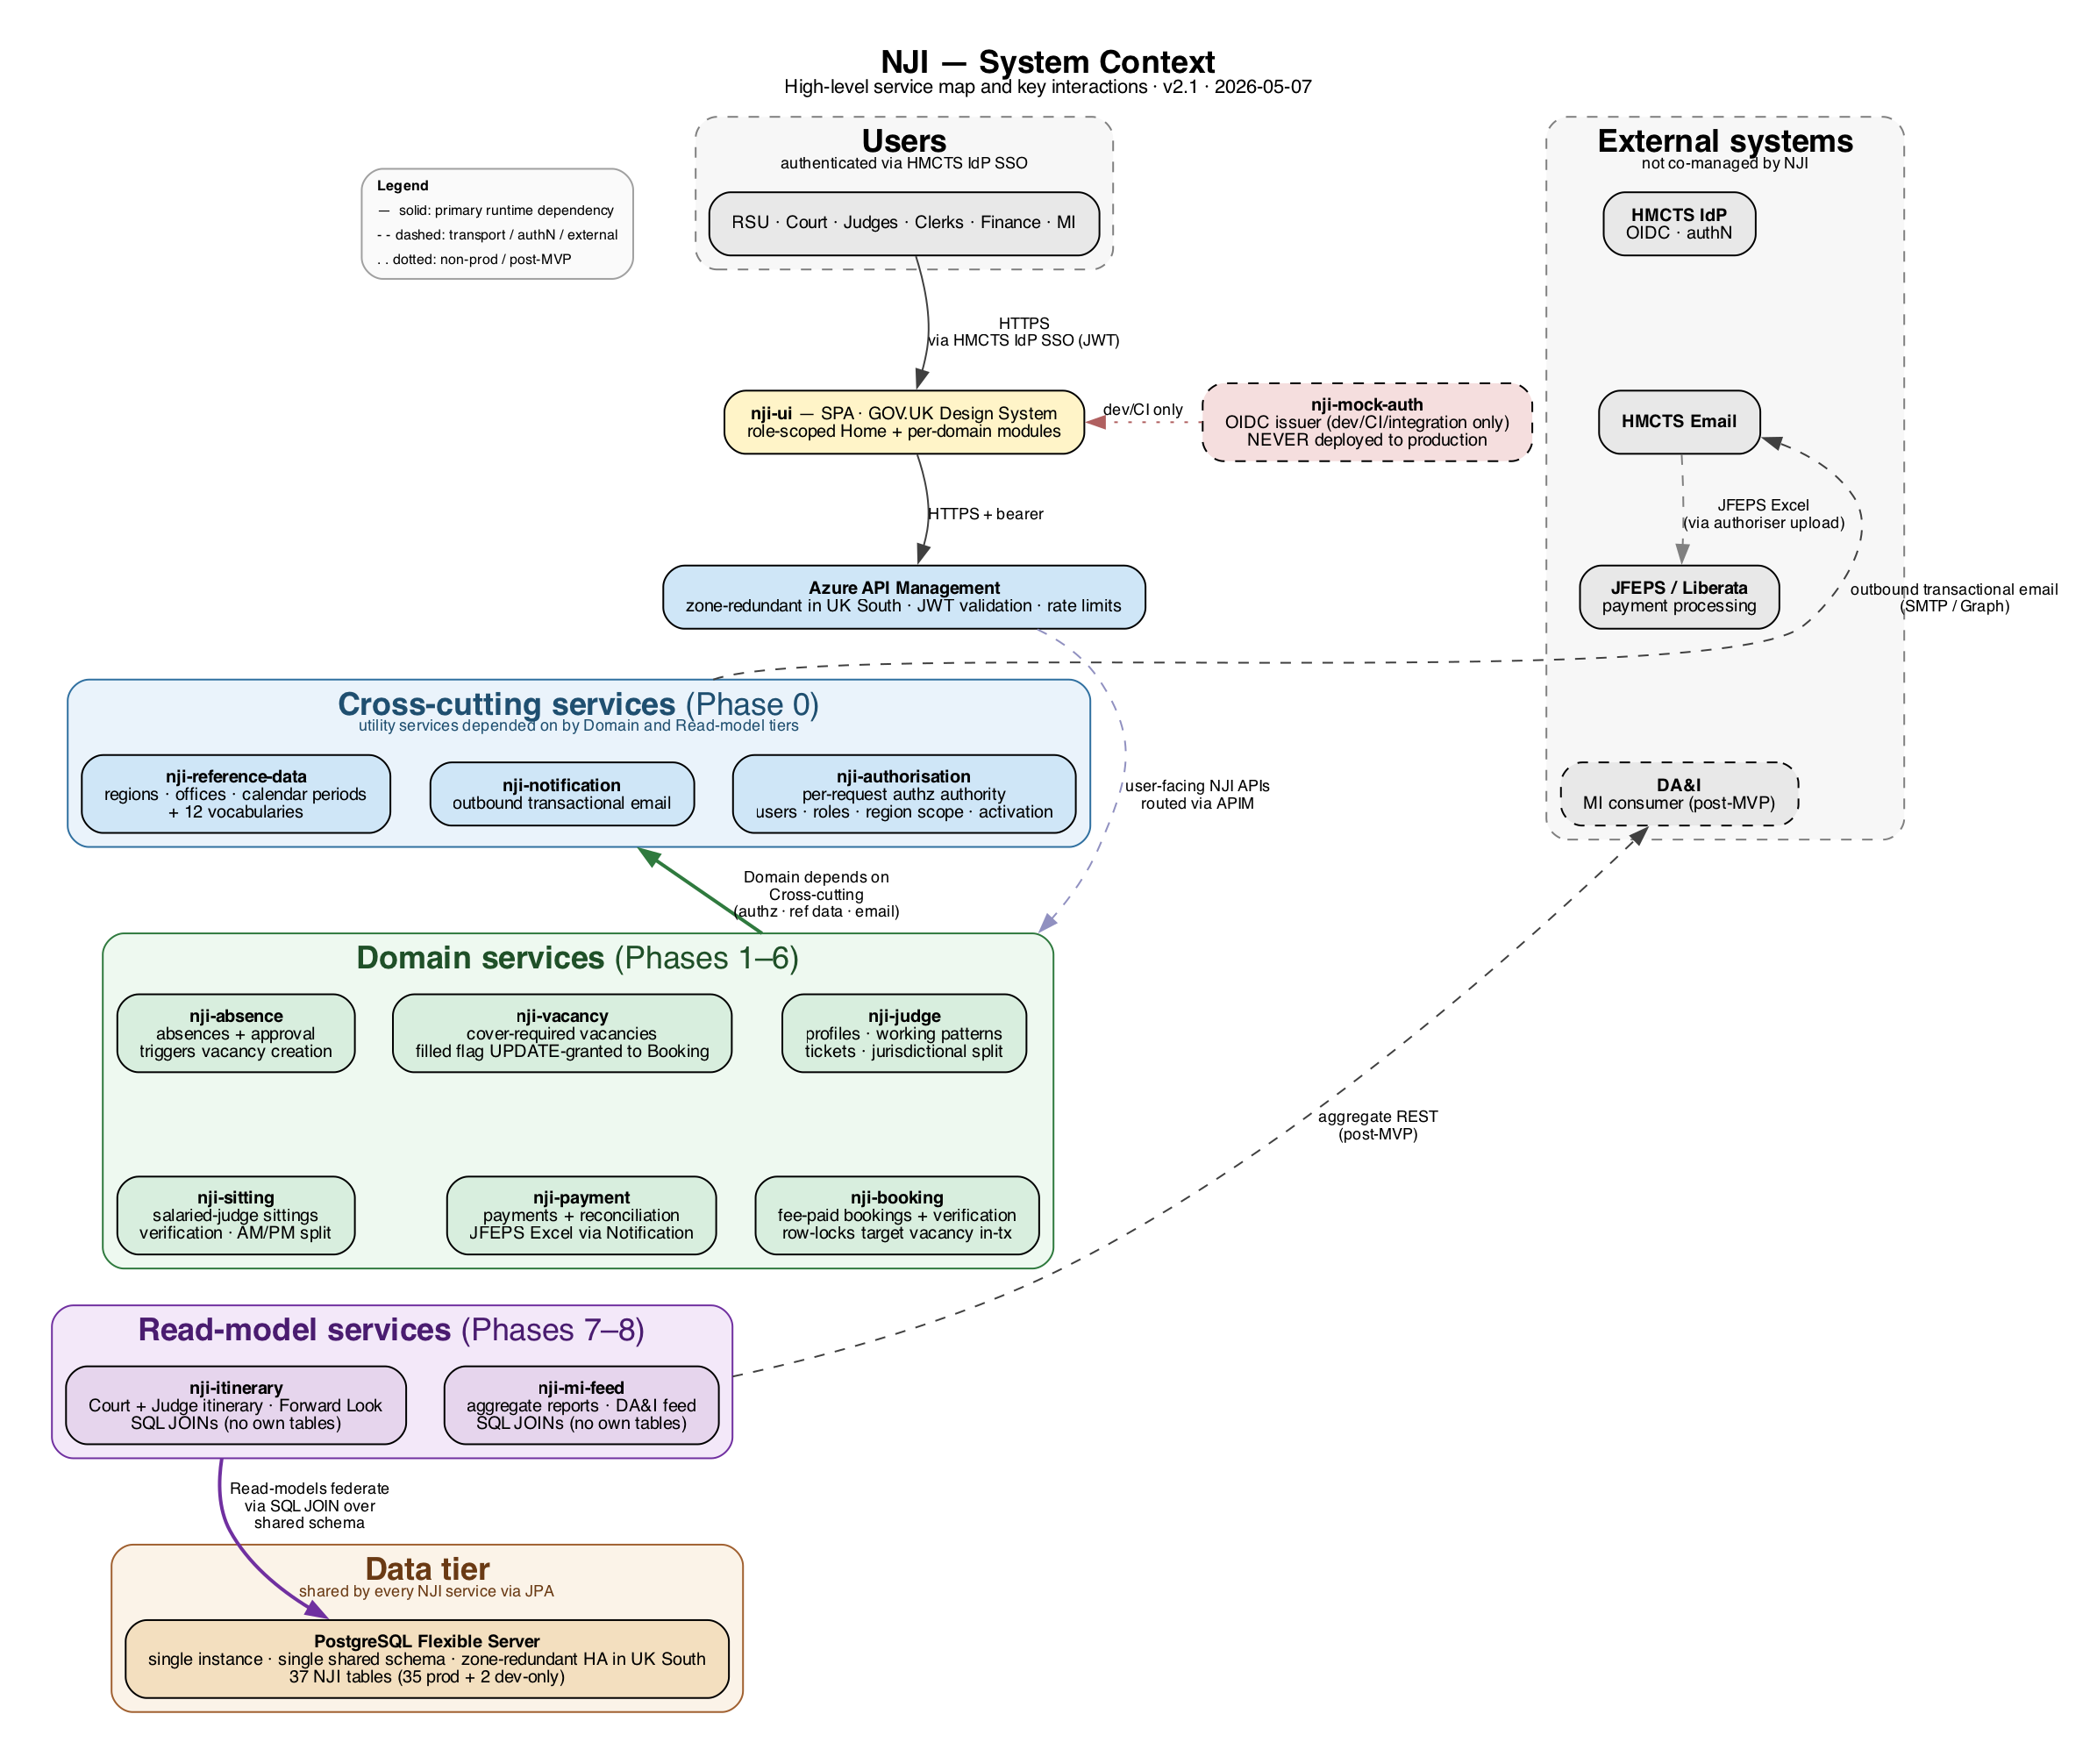
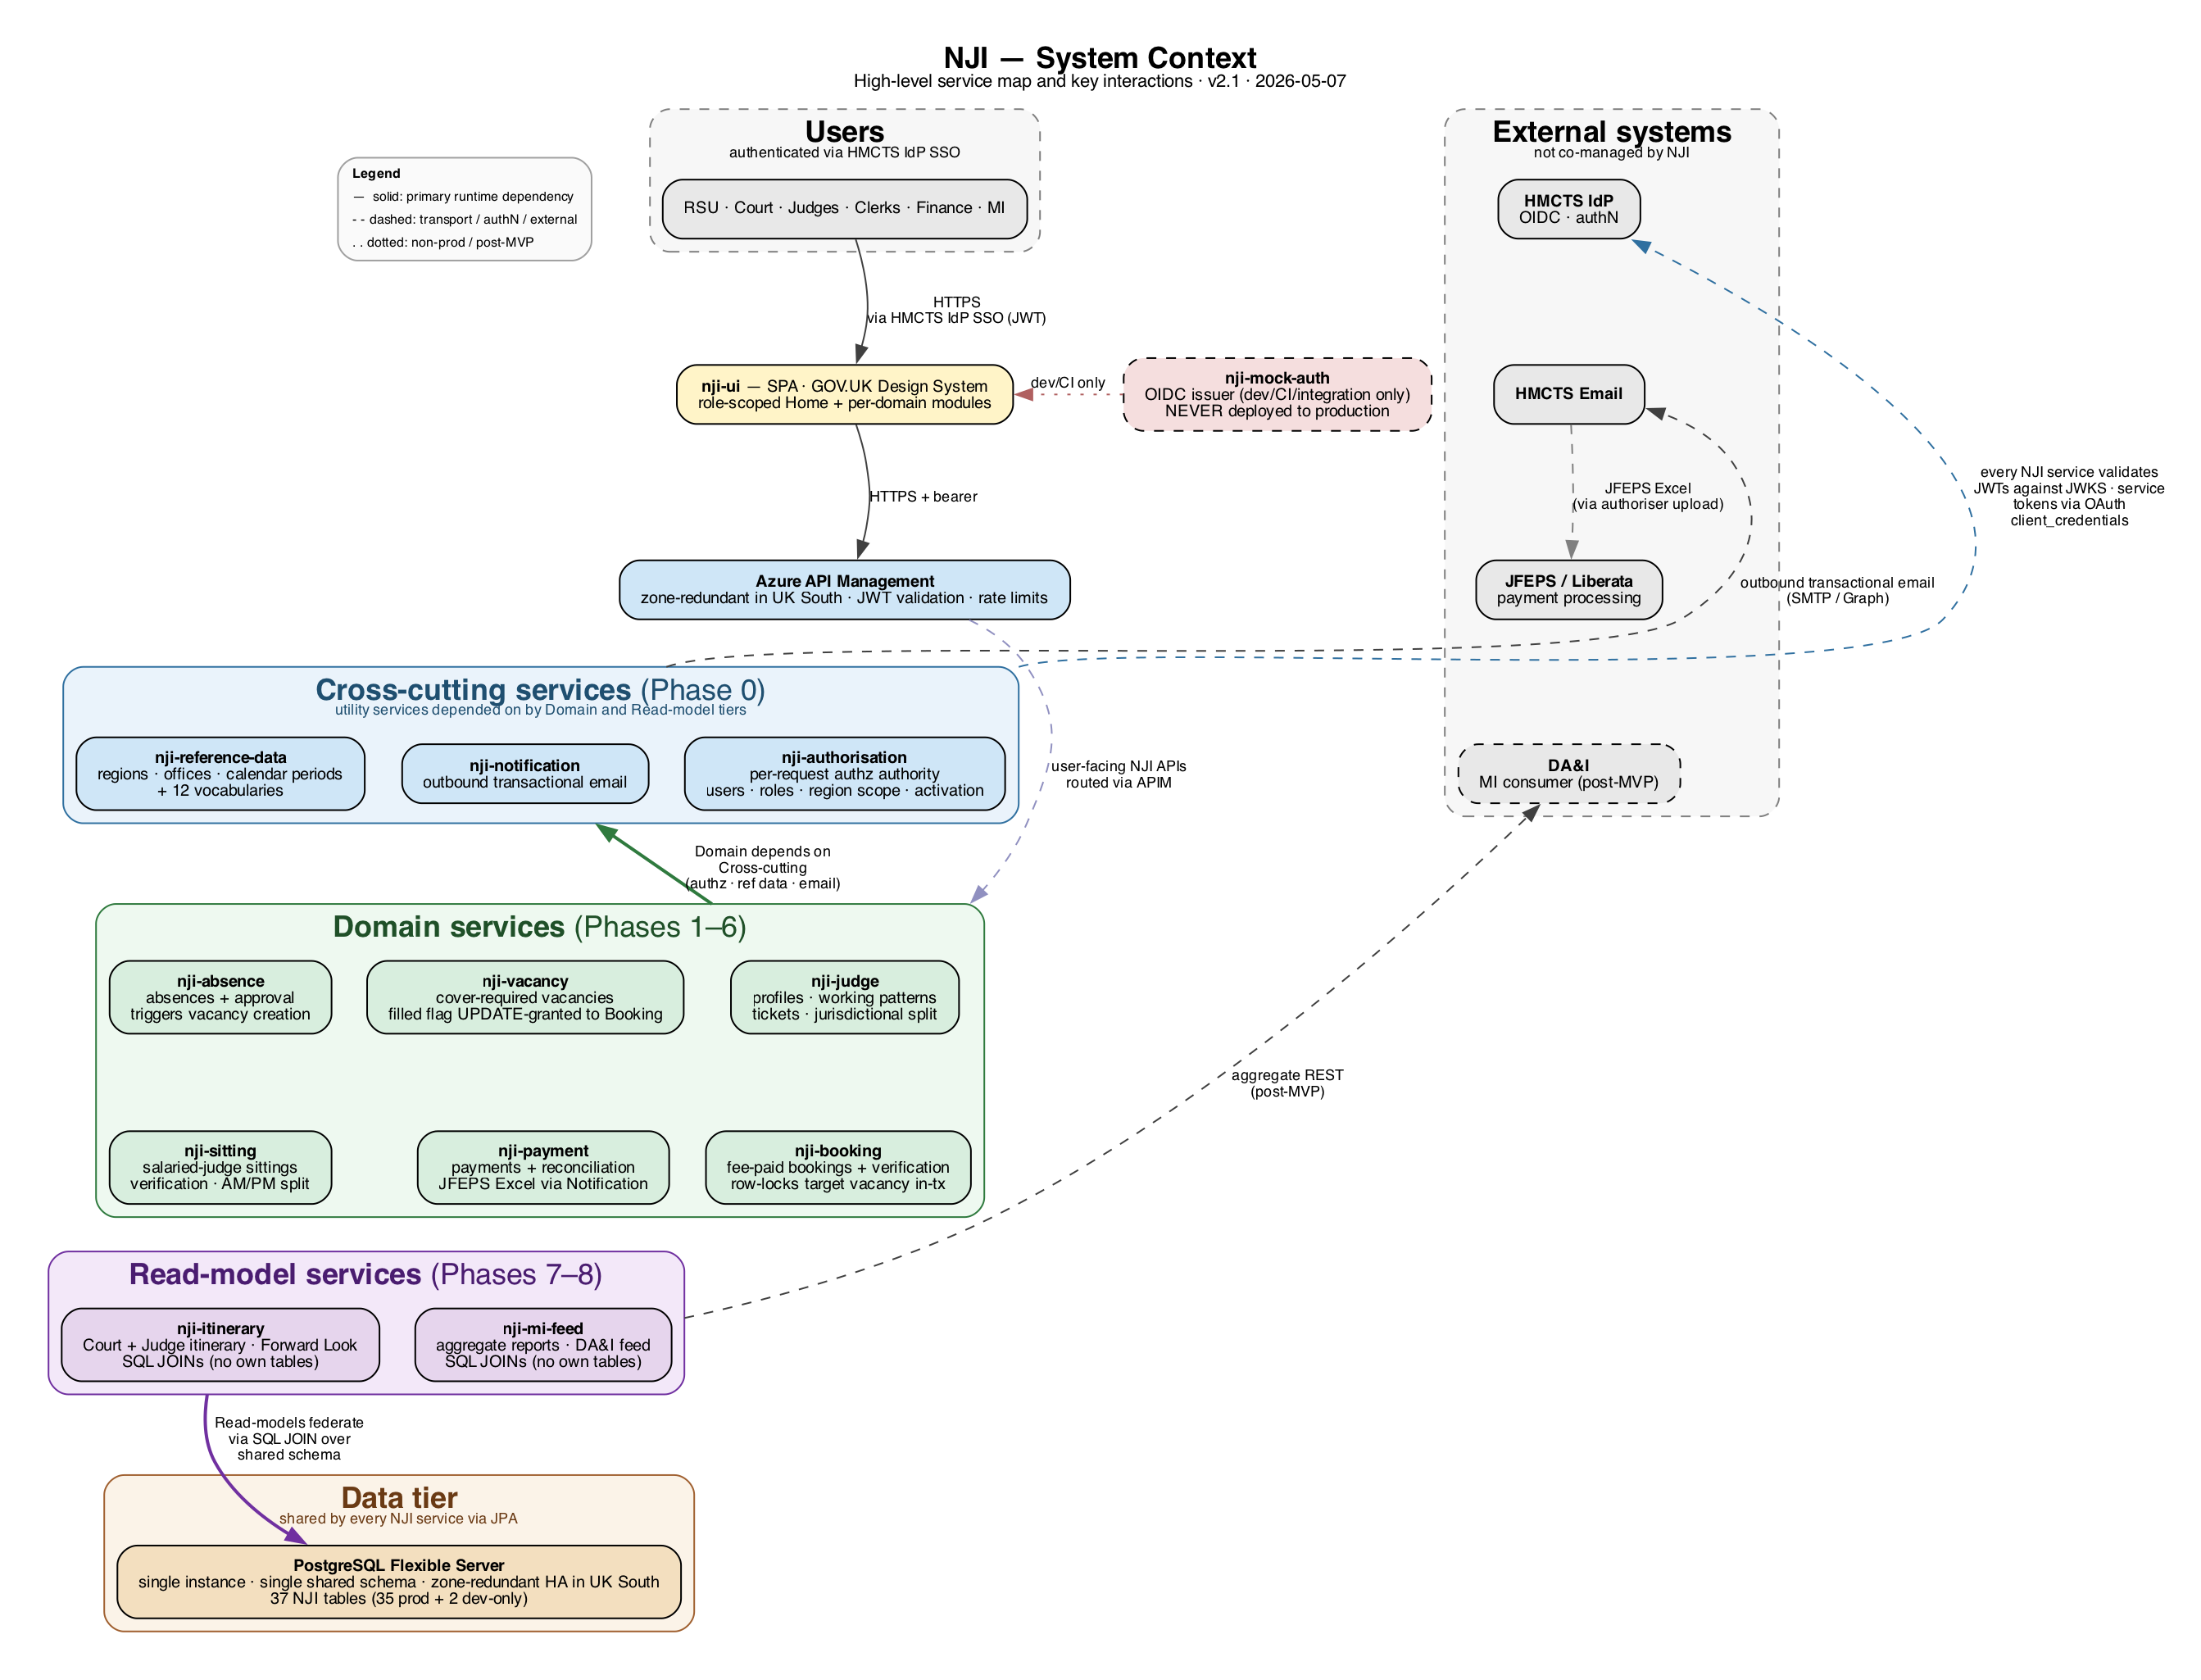
docs: Update architecture documentation to clarify HMCTS IdP integration and JWT validation process

diff --git a/_bmad-output/planning-artifacts/architecture-summary.md b/_bmad-output/planning-artifacts/architecture-summary.md
@@ -64,9 +64,9 @@ This file describes **what is built and how it runs**. For decision rationale, a
 | Schema evolution | Flyway (NJI DDL only) |
 | Container orchestration | Azure Kubernetes Service — single production cluster in UK South with multi-AZ node pools |
 | Ingress | Azure API Management — Premium SKU, zone-redundant |
-| Identity provider | HMCTS IdP via OIDC (production); `nji-mock-auth` in dev / CI / integration |
-| Service-to-service auth | OAuth 2.0 client_credentials |
-| Per-request auth | Custom `JWTFilter` (HMCTS Crime template pattern) → `nji-authorisation` |
+| Identity provider | HMCTS IdP via OIDC (production); `nji-mock-auth` in dev / CI / integration; JWKS endpoint provides JWT-signature public keys to every NJI service |
+| Service-to-service auth | OAuth 2.0 client_credentials grant against the same OIDC issuer |
+| Per-request auth | Custom `JWTFilter` (HMCTS Crime template pattern, `io.jsonwebtoken:jjwt`) — validates JWT signature against IdP JWKS, then calls `nji-authorisation` for authz |
 | Secrets | Azure Key Vault (zone-redundant) |
 | Observability | Logback + Logstash JSON encoder → OpenTelemetry → Azure Application Insights / Log Analytics |
 | Frontend stack | React + TypeScript + Vite + GOV.UK Design System |
@@ -86,9 +86,10 @@ Full per-table inventory: [`./architecture/data-tables.md`](./architecture/data-
 
 ## Authentication & Authorisation
 
-- **End-user authentication** — HMCTS IdP via OIDC; single sign-on; JWT issued. Mock auth (`nji-mock-auth`, Spring Authorization Server) is the OIDC issuer in non-production environments; cutover to real HMCTS IdP is a Spring profile change (no code change).
-- **End-user authorisation** — every NJI service implements its own custom `JWTFilter`. The filter validates the JWT and calls `POST /authz/check` against `nji-authorisation` to resolve role + Region/Area scope + per-region activation flag (FR58). Authorisation context lives in a request-scoped `AuthDetails` bean.
-- **Service-to-service authentication** — OAuth 2.0 `client_credentials` grant against the same OIDC issuer; service token attached as `Authorization: Bearer …` to internal calls.
+- **End-user authentication** — HMCTS IdP via OIDC; single sign-on; JWT issued. Mock auth (`nji-mock-auth`, Spring Authorization Server) is the OIDC issuer in non-production environments; cutover to real HMCTS IdP is a Spring profile change (issuer-url + JWKS URL flip — no code change).
+- **JWT signature validation against HMCTS IdP** — every NJI service's custom `JWTFilter` (per HMCTS Crime template, `io.jsonwebtoken:jjwt` based) validates the JWT signature and issuer by fetching public keys from the IdP's **JWKS endpoint** (`/oauth2/jwks` on mock auth; HMCTS IdP's published JWKS URL in production). Validation happens **before the request reaches the service's controller** — it is the gate that enforces "users have a valid authenticated session" before any NJI API resource is exposed. Public keys are cached per the issuer's cache headers.
+- **End-user authorisation** — after JWT validation, the same `JWTFilter` calls `POST /authz/check` against `nji-authorisation` to resolve role + Region/Area scope + per-region activation flag (FR58). Authorisation context lives in a request-scoped `AuthDetails` bean.
+- **Service-to-service authentication** — service principals acquire tokens from the same OIDC issuer via OAuth 2.0 `client_credentials` grant; service token attached as `Authorization: Bearer …` to internal calls; the receiving service's `JWTFilter` validates the service token via the same JWKS path.
 - **APEX ⇄ IdP identity reconciliation** — email primary, employee number fallback. Reconciliation is performed by the Phase 0 Data Migration ETL when seeding `nji-authorisation`.
 
 ## API patterns
@@ -109,8 +110,9 @@ Full per-table inventory: [`./architecture/data-tables.md`](./architecture/data-
 
 | Pattern | Mechanism |
 |---|---|
-| User request | HMCTS IdP SSO → JWT → `nji-ui` → APIM (JWT validation, rate limits) → service |
-| Per-request authz | `JWTFilter` calls `POST /authz/check` against `nji-authorisation` |
+| User request | HMCTS IdP SSO → JWT → `nji-ui` → APIM (rate limits, routing) → service |
+| Per-request JWT validation | Each NJI service's `JWTFilter` validates the inbound JWT signature against **HMCTS IdP's JWKS endpoint** before any controller is invoked |
+| Per-request authz | After JWT validation, the same `JWTFilter` calls `POST /authz/check` against `nji-authorisation` |
 | Reference Data reads | Direct SQL (per-service `SELECT` grant); no API call |
 | Reference Data writes | Via `nji-reference-data` API (admin / Phase 0 seeding) |
 | Cross-service workflow | REST call to the owning service |
@@ -152,7 +154,7 @@ A standalone programme deliverable, **not a runtime service**:
 
 | System | Direction | Purpose |
 |---|---|---|
-| HMCTS IdP | inbound (authN) + service-token issuance | OIDC authentication for users and service principals |
+| HMCTS IdP | inbound (authN) + JWKS used by NJI services for JWT signature validation + service-token issuance via OAuth client_credentials | OIDC authentication for users and service principals; every NJI service's `JWTFilter` validates inbound JWTs against IdP JWKS before allowing access to NJI APIs |
 | HMCTS Email | outbound | Booking / absence acknowledgements; JFEPS payment schedules |
 | JFEPS / Liberata | outbound (via authoriser email upload) | Payment processing |
 | DA&I | inbound (post-MVP REST) | MI consumer for aggregate reports |

diff --git a/_bmad-output/planning-artifacts/architecture.md b/_bmad-output/planning-artifacts/architecture.md
@@ -38,7 +38,7 @@ _This document builds collaboratively through step-by-step discovery. Sections a
 | [`./architecture/repo-structure.md`](./architecture/repo-structure.md) | Per-service / UI / `nji-architecture` repo directory structures, file organisation patterns, local development workflow, deployment-pipeline ASCII diagram |
 | [`./architecture/gaps.md`](./architecture/gaps.md) | Documented Gaps register — G1–G6 series with mitigations and owners |
 | [`./architecture/assumptions.md`](./architecture/assumptions.md) | Assumptions register — A1–A33 with type (load-bearing / reversible / aspirational) and verification path |
-| [`./architecture/changelog.md`](./architecture/changelog.md) | Version history v1.0 → v2.2, including a *pre-v1.8 anchor → current location* table for older changelog entries that reference moved sections |
+| [`./architecture/changelog.md`](./architecture/changelog.md) | Version history v1.0 → v2.3, including a *pre-v1.8 anchor → current location* table for older changelog entries that reference moved sections |
 
 Refactor history: the single-file `architecture.md` was split into the index + sibling structure above in v1.8 (Strategy B). Pre-v1.8 changelog entries reference section anchors that moved to siblings; the [`./architecture/changelog.md`](./architecture/changelog.md) header has a redirect table.
 
@@ -409,7 +409,7 @@ NJI's pre-production phases (0 through 8) use a **Mock Authentication Service** 
 **End-user authorisation: NJI Authorisation service** (locked).
 
 - Each NJI service implements its own **custom JWT filter** (per HMCTS Crime template's `JWTFilter` pattern, `io.jsonwebtoken:jjwt` based). The filter:
-  1. Validates the JWT signature and issuer (mock auth in Phase 0–8; HMCTS IdP from pre-Phase-9).
+  1. Validates the JWT signature and issuer **by fetching the issuer's JWKS public keys** (`/oauth2/jwks` on mock auth in Phase 0–8; HMCTS IdP's published JWKS endpoint from pre-Phase-9). Public keys are cached per the issuer's published cache headers.
   2. Extracts the principal identity (sub, email, employee number) from JWT claims.
   3. Calls `POST /authz/check` against the NJI Authorisation service to resolve the principal's NJI roles + Region/Area scope + per-region phased activation flag (FR58). **This step diverges from the HMCTS Crime template's claims-only authorisation** — NJI's authz state lives in Authorisation, not in the IdP, so per-request lookup is required.
   4. Stores the resolved authz context in a request-scoped `AuthDetails` bean (matching HMCTS Crime template's pattern).
@@ -901,7 +901,7 @@ What stays cross-repo:
 
 | External system | Direction | NJI service interacting | Pattern |
 |---|---|---|---|
-| HMCTS IdP | inbound (AuthN) + token issuance for service-to-service | All services (token validation); Authorisation (authz mapping) | OIDC; client_credentials grant for service-to-service. **Pre-Phase-9 dependency only** — mock auth (`nji-mock-auth`) covers Phase 0–8 dev/CI/integration. |
+| HMCTS IdP | inbound (AuthN) + token issuance for service-to-service | **Every NJI service** (each service's `JWTFilter` validates inbound JWT signatures against the IdP's **JWKS endpoint** before request reaches controller); **Authorisation** (authz mapping after JWTFilter passes); service principals (token acquisition) | OIDC. JWT signature validation via JWKS public keys (`io.jsonwebtoken:jjwt`); OAuth 2.0 `client_credentials` grant for service-to-service tokens. **Pre-Phase-9 dependency only** — mock auth (`nji-mock-auth`) covers Phase 0–8 dev/CI/integration; cutover is a Spring profile change (issuer-url + JWKS URL flip) — no code change. |
 | JFEPS / Liberata | outbound | Payment + Notification | JFEPS-Excel via email to Payment Authoriser; manual upload by authoriser |
 | HMCTS email | outbound | Notification | SMTP / Microsoft Graph (per HMCTS standard) |
 | Azure Application Insights | outbound (logs + traces) | All services | OpenTelemetry → OTel Collector → Application Insights as export target (per HMCTS Crime template) |
@@ -1206,4 +1206,4 @@ Drivers of high confidence:
 >
 > The full version history (v1.0 → v1.8) lives in the sibling. The changelog file also includes a *pre-v1.8 anchor → current location* redirect table for older changelog entries that reference section anchors that moved into siblings.
 >
-> **Latest version:** v2.2 — Dropped the dedicated `nji-configuration` service; `configuration_values` demoted to a shared infrastructure table (no API). Per-service config now uses Spring profiles + Key Vault. **Decomposition: 12 → 11 services; repos: 15 → 14.** Same design rule as v2.1: use native platform constructs over custom services. See the sibling for the full row.
+> **Latest version:** v2.3 — Made the HMCTS IdP integration with NJI services explicit on the system context diagram and in the docs: every NJI service's `JWTFilter` validates inbound JWT signatures against HMCTS IdP's JWKS endpoint before allowing access; service principals acquire tokens via OAuth client_credentials. New cluster-level edge from Cross-cutting → HMCTS IdP on the diagram; tightened wording in `architecture.md` Step 4 + Step 6 and across `architecture-summary.md`. See the sibling for the full row.

diff --git a/_bmad-output/planning-artifacts/architecture/changelog.md b/_bmad-output/planning-artifacts/architecture/changelog.md
@@ -39,6 +39,7 @@ extracted_in: architecture.md v1.8 — Strategy B refactor
 | **v1.6 — Consistency review + vocabulary inventory** | 2026-05-06 | Document-wide consistency pass: 31+ contradictions resolved (per-service DB→shared DB residue, Reference Data API→direct SQL reads with API writes, Spring Security→custom JWTFilter, schema-per-service residue, Application Insights→OpenTelemetry export, Kotlin DSL→Groovy, Liquibase→Flyway, etc.). **A1 decision applied:** `markFilled` API endpoint removed; Booking writes `vacancies.filled` via direct in-transaction DB UPDATE; **PRD FR30 updated for consistency**. **C decision applied:** Reference Data reads via direct SQL, writes via API. **D decision applied:** application tier region-isolated, DB tier shared globally with explicit note that alignment with HMCTS best practices on DB region isolation is a post-MVP review. **Vocabularies expanded (Option B):** single `judicial_vocabularies` placeholder replaced with 12 vocabulary tables (`judge_types`, `work_types`, `court_types`, `ticket_types`, `session_types`, `absence_types`, `working_pattern_types`, `booking_statuses`, `sitting_outcomes`, `fee_payment_statuses`, `payment_statuses`, `reconciliation_statuses`). New **Authoritative Table Ownership Mapping** section in Step 4 enumerating all 39 NJI database entities (37 production + 2 dev-only) grouped by owning service; provisional pending APEX SQL dump validation. | Step 2 — Cross-Cutting Concerns; [`./starter-template.md`](./starter-template.md); Step 4 — Data Architecture, Authentication, Infrastructure & Deployment + [`./data-tables.md`](./data-tables.md); [`./conventions.md` Naming Patterns, Communication Patterns](./conventions.md); Step 6 — Boundaries, Data Flow, Integration Points; Step 7 — Coherence Validation, FR/NFR Coverage tables; PRD `FR30` updated for cross-document consistency |
 | **v1.7 — Manual UAT replaces automated APEX-comparison parity tests** | 2026-05-06 | **D5, FR61, and NFR41 revised across the document set.** The earlier framing of "real APEX runs as an automated comparison reference; behavioural-parity tests run in CI" has been retracted. Behavioural parity is now verified by **manual user acceptance testing performed by APEX-experienced users** (RSU, Court, Judge, Judges' Clerks, Finance/Payment Authoriser, MI) who open APEX side-by-side with NJI and compare behaviour per a per-service UAT script under `docs/uat/`. Sign-off per role per region is the wave-cutover gate. Rationale: APEX has no programmatic test hook, the project does not co-manage APEX (D6), and an automated harness against an external system is fragile — APEX-experienced users themselves are the right source of truth for behavioural parity. **Removed:** the boilerplate APEX-comparison test base class (Step 3 → now [`./starter-template.md`](./starter-template.md)); `*ApexParityTest.java` test conventions (Step 5 → now [`./conventions.md`](./conventions.md)); `parity/` directory in per-service tree and project structure (Step 6 → now [`./repo-structure.md`](./repo-structure.md)); "APEX (during build) — HTTP scraping + DB read in test environment" entry in External Integration Points (Step 6). **Reframed:** Step 2 cross-cutting concern; Step 5 test conventions to add `docs/uat/` and contract tests; Step 6 cross-cutting concerns table row; A12, A13 assumptions; Step 7 Implementation Handoff bullet; deployment pipeline gate; region rollout flow gate; Maintainability NFR coverage row. **Cross-document propagation:** brainstorming-session-2026-05-05-1600.md (D5, captured idea #4, Risk #11, Risk #12, session insights, decisions log); prd.md (Section "What Makes This Special" #3, Technical Success bullet, MVP scope bullet, Measurable Outcomes row, FR61, NFR41, Decisions Log D5); both implementation-readiness reports. | Step 2 — Cross-Cutting Concerns; [`./starter-template.md` Per-service NJI Conventions, Foundational Principles "What is duplicated"](./starter-template.md); Step 4 — Phasing of Authentication, Implementation Sequence; [`./conventions.md` Test conventions, Naming Patterns](./conventions.md); [`./repo-structure.md` Per-service tree, Project Directory Structure](./repo-structure.md); Step 6 — External System Boundaries, Cross-Cutting Concerns to File Locations, External Integration Points, Region rollout flow; Step 7 — Coherence Validation Pattern Consistency, NFR Maintainability coverage, [`./assumptions.md` A12, A13](./assumptions.md), [`./gaps.md` G5.1](./gaps.md), Architecture Strengths, Implementation Handoff; PRD `FR61` / `NFR41` / Decisions Log D5; brainstorming `D5` / Risk #11 / Risk #12 / captured idea #4; both implementation-readiness reports |
 | **v1.8 — Strategy B refactor (architecture vs implementation split)** | 2026-05-06 | `architecture.md` (~2,050 lines) split into seven sibling files under `architecture/` to keep the main file architecture-heavy and lift implementation detail into referenced siblings. **Sibling files created:** [`./gaps.md`](./gaps.md) (Step 7 G1–G6); [`./assumptions.md`](./assumptions.md) (Step 7 A1–A33); [`./changelog.md`](./changelog.md) (this file); [`./conventions.md`](./conventions.md) (Step 5 entirely — naming, structure, format, communication, process, enforcement, examples); [`./repo-structure.md`](./repo-structure.md) (Step 6 per-service / UI / `nji-architecture` directory trees + File Organisation + Development Workflow + deployment-pipeline diagram); [`./starter-template.md`](./starter-template.md) (Step 3 init flow + Gradle build tool + dependency inventory + per-service NJI conventions); [`./data-tables.md`](./data-tables.md) (Step 4 Authoritative Table Ownership Mapping — 39 entities). **What stayed in `architecture.md`:** Step 1 context + cross-cutting concerns; Step 3 foundational principles + starter options summary + selected starter rationale; Step 4 core architectural decisions (data architecture summary, authentication, API & communication, frontend, infrastructure, decision impact, TBDs resolved); Step 6 architectural boundaries + integration points (internal + external) + data flow + region-rollout flow; Step 7 coherence validation + FR/NFR coverage + readiness assessment + implementation handoff; Implementation Sequence. **Anchor handling:** pre-v1.8 anchors in earlier changelog rows reference sections that moved to siblings; the *Pre-v1.8 anchor → current location* table at the top of this file resolves them. | All — sibling files created in [`architecture/`](.); main `architecture.md` stubs replaced moved sections with one-line links into the siblings |
+| **v2.3 — Make HMCTS IdP integration with NJI services explicit (JWKS validation + service tokens)** | 2026-05-07 | The system context diagram had `idp` (HMCTS IdP) as a node with no edges to or from any NJI component, so the integration with NJI services was invisible — the user-side SSO label on `users → ui` was the only mention. Added a cluster-level edge from the **Cross-cutting cluster** to **HMCTS IdP** labelled "every NJI service validates JWTs against JWKS · service tokens via OAuth client_credentials" (dashed, authN-blue). This represents the existing-but-undrawn integration where every NJI service's `JWTFilter` validates inbound JWT signatures against HMCTS IdP's JWKS endpoint before the request reaches the controller, plus service principals acquiring tokens via OAuth `client_credentials`. **Documentation tightened to match:** [`../architecture.md`](../architecture.md) Step 4 *Authentication & Security* `JWTFilter` step 1 made JWKS-fetch explicit; *Integration Points — External* HMCTS IdP row reworded to name JWKS + the per-service `JWTFilter` validation pattern + the issuer-url + JWKS-URL flip at pre-Phase-9 cutover. [`../architecture-summary.md`](../architecture-summary.md) §*Authentication & Authorisation* split into 5 bullets to make JWKS validation explicit; §*Cross-service interaction patterns* table fixed (User request row no longer attributes JWT validation to APIM; new *Per-request JWT validation* row); §*External integrations* HMCTS IdP row reworded; §*Technology stack* IdP / service-to-service / per-request-auth rows reworded. [`./diagrams/system-context.dot`](./diagrams/system-context.dot) updated; PNG re-rendered. **What did *not* change** because already correctly described at the appropriate level of abstraction: PRD `FR1` / `FR5` / `NFR12` / `NFR20` (requirement level — no JWKS implementation detail expected); brainstorming-1600 (locks SSO/AuthN delegation decision); both readiness reports (derivative). | [`../architecture.md` Step 4 *Authentication & Security*, Step 6 *Integration Points — External*](../architecture.md); [`../architecture-summary.md`](../architecture-summary.md); [`./diagrams/system-context.dot`](./diagrams/system-context.dot) |
 | **v2.2 — Drop dedicated `nji-configuration` service; demote `configuration_values` to a shared infrastructure table** | 2026-05-07 | The `nji-configuration` service was removed from the decomposition. Per-service runtime configuration is handled by **Spring profiles + `application.yml` + Azure Key Vault** (already the established pattern in Step 4 *Infrastructure & Deployment*). Cross-service runtime policy values live in a **shared `configuration_values` infrastructure table** with no owning service: schema-managed by `nji-architecture`'s Flyway baseline migration; SELECT-granted to every NJI service DB role; writes via Flyway migrations / admin SQL only — no API. **Why this matters:** the dedicated configuration service was over-engineering — Spring Boot's native configuration mechanism + a small shared table covers the same requirement using primitives the team already uses. Consistent with the design rule "use natively-supported constructs over custom entities". **Decomposition: 12 services → 11 services. Repos: 15 → 14.** **Cross-document propagation:** [`../architecture.md`](../architecture.md) Step 1 cross-cutting list, Step 2 complexity assessment, Step 3 foundational principles "what is shared", Step 4 Data Architecture (rationale paragraphs), Step 4 Implementation Sequence Phase 0 services + step 4, Step 6 Repository List + Requirements to Structure Mapping + Internal Communication diagram + repo total, Step 7 NFR Foundational Data coverage + Completeness Checklist + Implementation Handoff. [`./data-tables.md`](./data-tables.md): Configuration service section replaced by *Shared infrastructure tables* section housing `configuration_values`; inventory totals updated (still 37 tables: 34 service-owned production + 1 shared infrastructure + 2 dev-only). [`./diagrams/system-context.dot`](./diagrams/system-context.dot): `config` node removed from Cross-cutting cluster; reflowed from 2×2 to 1×3; spine edges updated. PRD `D1`, `FR8`, MVP scope, Technical Success bullet, Capabilities to Cluster mapping all reframed. brainstorming-1600.md: D1 + Phase 0 scope + migration table + Risk #5 updated. Both readiness reports updated. | [`../architecture.md` Step 1, Step 2, Step 3, Step 4 Implementation Sequence, Step 6 Repository List, Step 7 coverage tables, Step 8 Implementation Handoff](../architecture.md); [`./data-tables.md`](./data-tables.md); [`./diagrams/system-context.dot`](./diagrams/system-context.dot); PRD `D1` / `FR8` / "All 11 services live" / "Cross-cutting services" / "Phase 0 Foundations"; brainstorming-1600.md `D1` / Phase 0 scope / migration table; both implementation-readiness reports |
 | **v2.1 — Drop custom idempotency-key tables; use DB-native retry-safety primitives** | 2026-05-06 | Per-service `*_idempotency_keys` tables (`booking_idempotency_keys`, `payment_idempotency_keys`) and the per-service `IdempotencyFilter` boilerplate were dropped. Retry safety (FR45 — no double payment submission; FR30 — Booking creation safe to retry) is now provided by **PostgreSQL + JPA native primitives**: (a) **natural-key unique constraints** (`uq_bookings_vacancy_judge_session_date_type`, `uq_payments_cycle_run_date`, etc.) at the DB layer translate retry-of-successful-create into `409 Conflict`; (b) **JPA `@Version` optimistic locking** (`version integer NOT NULL DEFAULT 0` column on every domain entity) translates lost-update conflicts into `412 Precondition Failed`; (c) **PostgreSQL pessimistic row locking** (`SELECT … FOR UPDATE` via Spring Data JPA `@Lock(PESSIMISTIC_WRITE)`) on related rows handles cross-row workflow safety (e.g. Booking holds a row lock on the target vacancy across the booking-create-and-mark-filled transaction). The HTTP `Idempotency-Key` header is reserved as a future escape hatch but not implemented at MVP. **Why this matters:** the user called out that DB-level row locking + audit trail were already covering the ground that custom idempotency-key tables aimed at, and `*_idempotency_keys` tables were over-engineering for a problem PostgreSQL solves natively. **What changed:** [`./conventions.md`](./conventions.md) "Idempotency-key handling" section rewritten as "Retry safety and concurrency control" with the three native mechanisms; service-prefix table-name examples updated; constants example updated. [`./data-tables.md`](./data-tables.md): `booking_idempotency_keys` and `payment_idempotency_keys` removed; Booking → 1 table (was 2); Payment → 3 tables (was 4); total → **37 tables** (35 production + 2 dev-only) from 39. [`../architecture.md`](../architecture.md): Step 2 cross-cutting concern reframed (now "Retry safety via native DB primitives, not custom idempotency tables"); Step 3 "what is duplicated" updated to per-service `@ControllerAdvice` translating `DataIntegrityViolationException` and `OptimisticLockingFailureException`; Step 4 idempotency line replaced with native-DB summary; Step 4 cross-service-write table notes pessimistic row lock recommendation; Step 6 *Cross-Cutting Concerns to File Locations* — IdempotencyFilter row replaced with "DB-native — `uq_*` constraints + `@Version` + `@Lock(PESSIMISTIC_WRITE)`"; Repository List Key Functions for `nji-booking` and `nji-payment` updated; Step 7 Coherence Validation, Requirements Coverage, Architecture Completeness Checklist all reworded. [`./repo-structure.md`](./repo-structure.md): per-service `config/` directory drops `IdempotencyFilter.java`. **Design rule captured:** prefer natively-supported constructs over custom entities for problems already solved by the platform — added to user-feedback memory for application going forward. | [`../architecture.md` Step 2 Cross-Cutting Concerns + Step 3 "what is duplicated" + Step 4 Authentication & Security idempotency line + Step 4 cross-service access table + Step 6 Cross-Cutting Concerns to File Locations + Repository List `nji-booking` / `nji-payment` rows + Step 5 stub intro + Step 7 Coherence Validation / Requirements Coverage / Completeness Checklist](../architecture.md); [`./conventions.md` Naming Patterns service-prefix examples + Constants examples + Communication Patterns retry-safety section](./conventions.md); [`./data-tables.md` Booking + Payment + Inventory totals + retry-safety convention note](./data-tables.md); [`./repo-structure.md` per-service `config/` directory](./repo-structure.md) |
 | **v2.0 — Same-Azure-region multi-AZ HA topology (retracts implied per-Azure-region active/active)** | 2026-05-06 | Rewrote the Region Isolation section in [`../architecture.md`](../architecture.md) to disambiguate two distinct senses of "region" that the v1.x text muddled together. **Azure region** (UK South / UK West) is a geographic deployment region with multiple availability zones; **HMCTS judicial region** is the per-region phased-rollout boundary used by D8 (Northern, Western, etc.) and is a *business* concept. The v1.x wording — "per-region AKS clusters (or namespaces); region-specific DNS (`nji.uksouth.hmcts.gov.uk`, `nji.ukwest.hmcts.gov.uk`); region-specific Key Vault and Application Insights instances; per-region pipeline runs and rolling deployments" — implied per-Azure-region active/active topology, which is wrong on two fronts: (a) NFR38 was always meant in the HMCTS-judicial-region sense (handled at the application tier via FR58 activation flags); (b) NJI's bounded scale and shared-global PostgreSQL (Principle 2 simplification) are incompatible with cross-Azure-region active/active. **New topology aligned to the AWS same-region multi-AZ pattern:** production runs in **a single Azure region (UK South)** with services spread across all three UK South AZs — AKS multi-zone node pools with pod anti-affinity, PostgreSQL Flexible Server zone-redundant HA (primary + standby in different AZs, synchronous replication, automatic <60 s failover), APIM Premium zone-redundancy, Key Vault zone-redundancy, ACR zone-redundancy. **UK West is cold-standby DR** (programme decision on MVP scope, default post-MVP — G3.6). HMCTS-judicial-region rollout isolation is enforced at the application tier via `auth_user_activation_flags` per FR58, *not* by separate Azure clusters. **Helm values restructure:** per-service `helm/` directory now uses `values-production.yaml` (UK South) + optional `values-dr-uk-west.yaml` (DR-only, scope-conditional) instead of `values-production-uk-south.yaml` + `values-production-uk-west.yaml`. **Cross-document propagation:** PRD `NFR38` reframed; architecture.md Step 1 Reliability bullet, Step 4 Hosting + Database hosting + Decision Priority Analysis + Cross-Component Dependencies G6.2, Step 7 Coherence Validation + NFR coverage + Architecture Strengths all updated; new A34 (UK South multi-AZ availability) and G3.6 (DR scope decision) added; G6.2 mitigation refined. | [`../architecture.md` Step 1 Reliability bullet, Step 4 Hosting + Database hosting + Decision Priority Analysis (HA topology row) + Region Isolation rewrite + Cross-Component Dependencies, Step 7 Coherence Validation Structure Alignment + NFR Reliability coverage + Architecture Strengths](../architecture.md); [`./repo-structure.md` per-service `helm/` directory](./repo-structure.md); [`./assumptions.md` A34](./assumptions.md); [`./gaps.md` G3.6 + G6.2](./gaps.md); PRD `NFR38` |